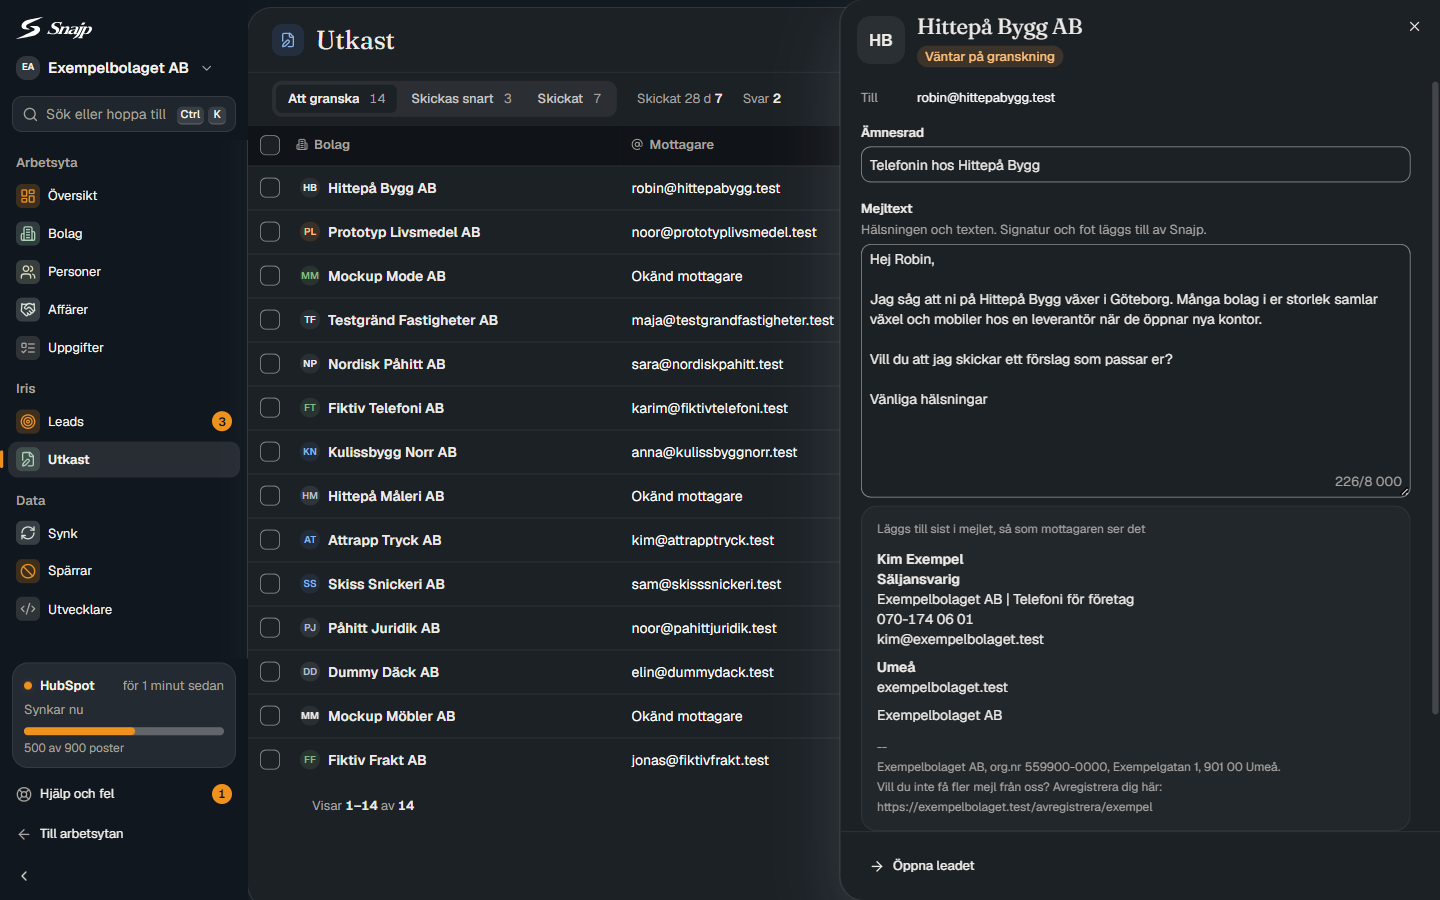
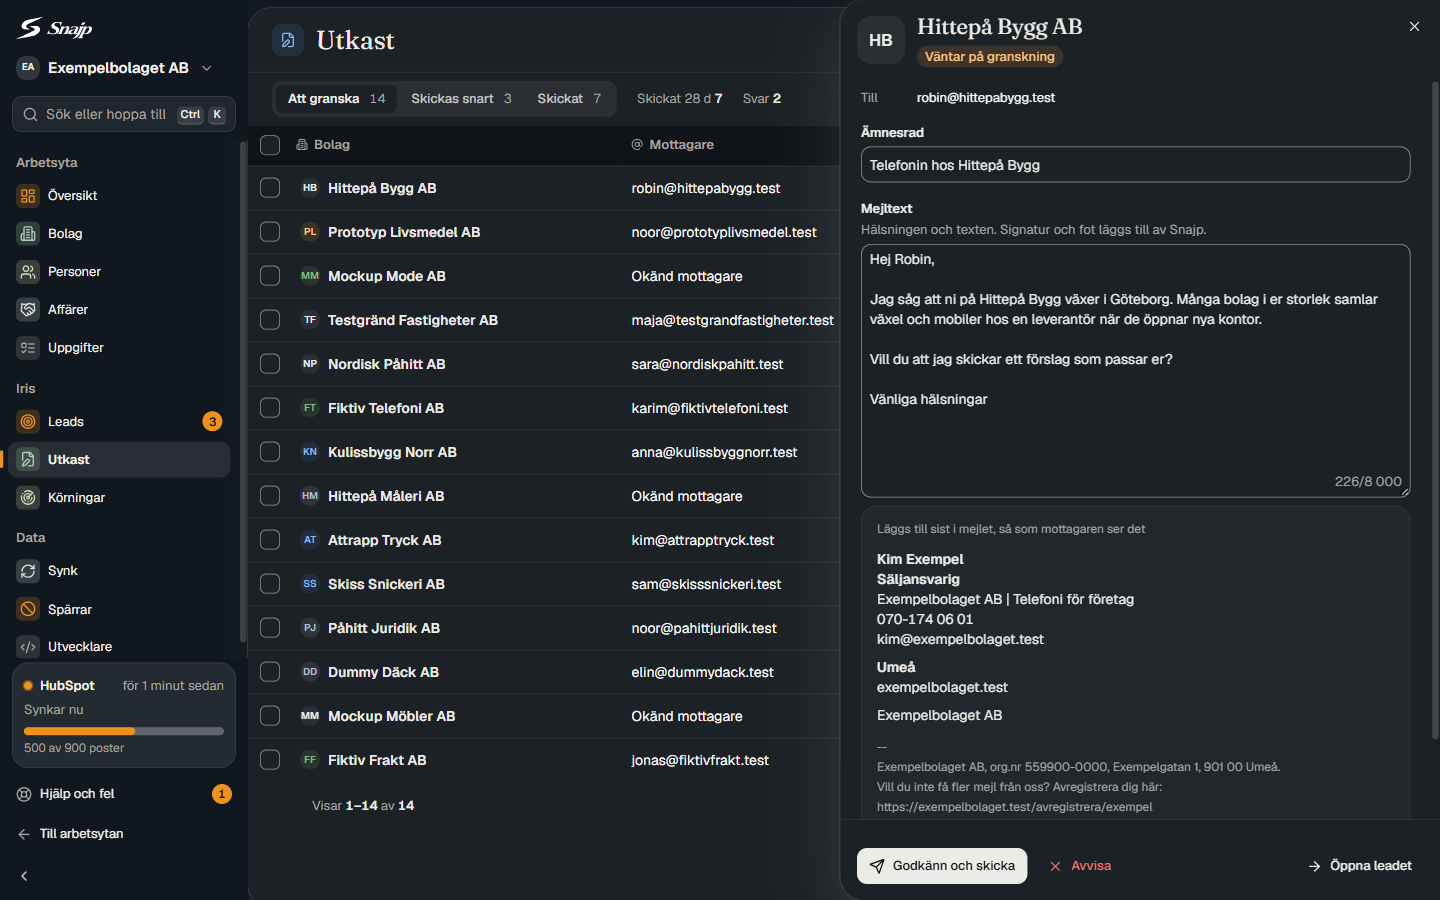
fix(crm): besluten i utkastpanelens fot, och korningslistan utan kapade kolumner
Orkestratorns egen granskning av bilderna fran steg 4.3 och 4.4:
- Godkann och skicka, Spara och Avvisa lag under signaturen i utkastets
  panel, sa att man fick rulla forbi hela mejlet for att na dem. De star
  nu i panelens fot tillsammans med utfallet (ny prop fot i
  Utkastredigerare, ritad med en portal). Verktygen for texten (Bearbeta
  texten, Skicka provmejl, Skriv om) star kvar vid texten.
- Korningslistan: typen (Research och utkast, A) och markningen Test
  kapades fast det fanns plats. Kolumnerna ar ombalanserade och utfallet
  tar resten.
- Kor Iris: Antal leads och Omfattning stod pa olika hojd. Forklaringen
  star nu under raden.

Sett i bild i 1440 ljust och morkt och i 390, aven med lasroll och
kundbesok. Avgransad tsc ren, 769 invarianter grona.

diff --git a/components/crm/app/iris/Utkastredigerare.tsx b/components/crm/app/iris/Utkastredigerare.tsx
@@ -1,6 +1,7 @@
 "use client";
 
 import { useEffect, useRef, useState } from "react";
+import { createPortal } from "react-dom";
 import { Check, Mail, RefreshCw, Send, Sparkles, TriangleAlert, Undo2, X } from "lucide-react";
 import { AlertDialog } from "@astryxdesign/core/AlertDialog";
 import { Banner } from "@astryxdesign/core/Banner";
@@ -176,6 +177,7 @@ export function Utkastredigerare({
   provmejl,
   skriv,
   extra,
+  fot,
   visaText = true
 }: Readonly<{
   /** Utkastets id: ett nytt värde (annat utkast) börjar om från den sparade texten. */
@@ -205,6 +207,11 @@ export function Utkastredigerare({
   skriv: { far: boolean; skal: string | null };
   /** Ytans egna knappar, sist i raden. */
   extra?: React.ReactNode;
+  /**
+   * Panelens fot. Finns den står besluten (Godkänn och skicka, Spara, Avvisa) och utfallet där, så att
+   * de syns utan att man rullar förbi signaturen. Verktygen för texten står kvar vid texten.
+   */
+  fot?: HTMLElement | null;
   /** Falskt: bara handlingarna och utfallet, när ytan redan visar mejlet (en skickad konversation). */
   visaText?: boolean;
 }>) {
@@ -439,6 +446,25 @@ export function Utkastredigerare({
   const rader = Math.min(22, Math.max(8, falt.text.split("\n").length + Math.floor(falt.text.length / 72) + 1));
   const aiNamn = (v: Studioval) => text(STUDIOVAL.find((s) => s.v === v)?.namn ?? { sv: v, en: v });
 
+  const knappGodkann = godkann ? (
+    <Button
+      label={godkann.etikett ?? text({ sv: "Godkänn och skicka", en: "Approve and send" })}
+      variant="primary"
+      icon={<Icon icon={Send} size="sm" />}
+      isLoading={upptagen === "godkann"}
+      isDisabled={lasning.isDisabled || (handlingslista.length > 0 && !kontrollerat)}
+      tooltip={skriv.skal ?? (handlingslista.length > 0 && !kontrollerat ? text({ sv: "Bekräfta först att det utkastet påstår är gjort.", en: "First confirm that what the draft claims is done." }) : undefined)}
+      onClick={() => void gor("godkann", () => godkann.gor(handlingslista.length > 0 && kontrollerat))}
+    />
+  ) : null;
+  const knappSpara =
+    visaFalt && spara && andrad ? (
+      <Button label={text({ sv: "Spara", en: "Save" })} variant="secondary" icon={<Icon icon={Check} size="sm" />} isLoading={upptagen === "spara"} {...lasning} onClick={sparaNu} />
+    ) : null;
+  const knappAvvisa = avvisa ? (
+    <Button label={text({ sv: "Avvisa", en: "Reject" })} variant="ghost" icon={<Icon icon={X} size="sm" />} className="crm-farlig" isLoading={upptagen === "avvisa"} {...lasning} onClick={() => setAvvisas(true)} />
+  ) : null;
+
   return (
     <div className="flex flex-col gap-4">
       {visaText && mottagare !== undefined ? (
@@ -588,20 +614,8 @@ export function Utkastredigerare({
 
       {!skrivs ? (
         <div className="flex flex-wrap items-center gap-2">
-          {godkann ? (
-            <Button
-              label={godkann.etikett ?? text({ sv: "Godkänn och skicka", en: "Approve and send" })}
-              variant="primary"
-              icon={<Icon icon={Send} size="sm" />}
-              isLoading={upptagen === "godkann"}
-              isDisabled={lasning.isDisabled || (handlingslista.length > 0 && !kontrollerat)}
-              tooltip={skriv.skal ?? (handlingslista.length > 0 && !kontrollerat ? text({ sv: "Bekräfta först att det utkastet påstår är gjort.", en: "First confirm that what the draft claims is done." }) : undefined)}
-              onClick={() => void gor("godkann", () => godkann.gor(handlingslista.length > 0 && kontrollerat))}
-            />
-          ) : null}
-          {visaFalt && spara && andrad ? (
-            <Button label={text({ sv: "Spara", en: "Save" })} variant="secondary" icon={<Icon icon={Check} size="sm" />} isLoading={upptagen === "spara"} {...lasning} onClick={sparaNu} />
-          ) : null}
+          {fot ? null : knappGodkann}
+          {fot ? null : knappSpara}
           {skrivOm && !omskrivning ? (
             <Button label={text({ sv: "Skriv om", en: "Rewrite" })} variant="secondary" icon={<Icon icon={RefreshCw} size="sm" />} {...lasning} onClick={startaOmskrivning} />
           ) : null}
@@ -626,13 +640,27 @@ export function Utkastredigerare({
             <Button label={text({ sv: "Skicka provmejl", en: "Send test email" })} variant="ghost" icon={<Icon icon={Mail} size="sm" />} {...lasning} onClick={() => void oppnaProv()} />
           ) : null}
           {extra}
-          {avvisa ? (
-            <Button label={text({ sv: "Avvisa", en: "Reject" })} variant="ghost" icon={<Icon icon={X} size="sm" />} className="crm-farlig" isLoading={upptagen === "avvisa"} {...lasning} onClick={() => setAvvisas(true)} />
-          ) : null}
+          {fot ? null : knappAvvisa}
         </div>
       ) : null}
 
-      {/* Utfallet sägs upp i en region som finns hela tiden. */}
+      {/* Utfallet sägs upp i en region som finns hela tiden. Med en fot står det där, ovanför besluten. */}
+      {((utfall: React.ReactNode) =>
+        fot
+          ? createPortal(
+              <div className="flex min-w-0 flex-col gap-3">
+                {utfall}
+                {!skrivs ? (
+                  <div className="flex flex-wrap items-center gap-2">
+                    {knappGodkann}
+                    {knappSpara}
+                    {knappAvvisa}
+                  </div>
+                ) : null}
+              </div>,
+              fot
+            )
+          : utfall)(
       <div role="status" aria-live="polite">
         {/* Förloppet medan Iris skriver sägs här; rutan ovanför visar det bara. */}
         {skrivs ? <span className="sr-only">{text({ sv: "Iris skriver utkastet.", en: "Iris is writing the draft." })}</span> : null}
@@ -654,6 +682,7 @@ export function Utkastredigerare({
           />
         ) : null}
       </div>
+      )}
 
       <Dialog isOpen={prov != null} onOpenChange={(o) => !o && upptagen !== "prov" && setProv(null)} purpose="form" width={480}>
         <Layout

diff --git a/components/crm/app/iris/KorningarVy.tsx b/components/crm/app/iris/KorningarVy.tsx
@@ -329,25 +329,25 @@ export function KorningarVy({ bas = "/crm" }: Readonly<{ bas?: string }>) {
       {
         key: "created_at",
         header: <Kolumnrubrik ikon={Clock}>{text({ sv: "Startad", en: "Started" })}</Kolumnrubrik>,
-        width: pixel(220),
+        width: pixel(264),
         renderCell: (r) => (
           <NextLink href={vag(r.job_id)} className="crm-chip inline-flex h-7 max-w-full items-center gap-2 rounded-[6px] pl-1 pr-2" aria-label={text({ sv: `Öppna körningen ${korningstid(r.created_at, locale)}`, en: `Open the run ${korningstid(r.created_at, locale)}` })}>
             <Objektikon objekt="korningar" storlek={20} />
-            <span className="truncate text-[0.875rem] font-semibold tabular-nums text-ink">{korningstid(r.created_at, locale)}</span>
-            {r.is_test ? <Badge variant="neutral" label={text({ sv: "Test", en: "Test" })} /> : null}
+            <span className="whitespace-nowrap text-[0.875rem] font-semibold tabular-nums text-ink">{korningstid(r.created_at, locale)}</span>
+            {r.is_test ? (<span className="shrink-0"><Badge variant="neutral" label={text({ sv: "Test", en: "Test" })} /></span>) : null}
           </NextLink>
         )
       },
       {
         key: "typ",
         header: <Kolumnrubrik ikon={Type}>{text({ sv: "Typ", en: "Type" })}</Kolumnrubrik>,
-        width: proportional(1, { minWidth: 150 }),
+        width: pixel(196),
         renderCell: (r) => <span title={typ(r)} className="text-ink2">{typ(r)}</span>
       },
       {
         key: "status",
         header: <Kolumnrubrik ikon={CircleDot}>{text({ sv: "Status", en: "Status" })}</Kolumnrubrik>,
-        width: pixel(164),
+        width: pixel(160),
         renderCell: (r) => <Korningsstatus rad={r} />
       },
       {
@@ -372,13 +372,13 @@ export function KorningarVy({ bas = "/crm" }: Readonly<{ bas?: string }>) {
       {
         key: "undersokta",
         header: <Kolumnrubrik ikon={Search}>{text({ sv: "Undersökta", en: "Researched" })}</Kolumnrubrik>,
-        width: pixel(128),
+        width: pixel(116),
         renderCell: (r) => <span className="tabular-nums text-ink2">{r.korning ? tal(r.korning.undersokta) : "-"}</span>
       },
       {
         key: "utfall",
         header: <Kolumnrubrik ikon={Layers}>{text({ sv: "Utfall", en: "Outcome" })}</Kolumnrubrik>,
-        width: proportional(2, { minWidth: 180 }),
+        width: proportional(1, { minWidth: 180 }),
         renderCell: (r) => {
           const u = utfallText(r, text);
           return (

diff --git a/components/crm/app/iris/KorIris.tsx b/components/crm/app/iris/KorIris.tsx
@@ -274,10 +274,9 @@ export function KorIris({ oppen, stang, startad }: Readonly<{ oppen: boolean; st
               <fieldset className="crm-formgrupp">
                 <legend className="mb-3 text-[0.8125rem] font-semibold text-ink-muted">{text({ sv: "Körningen", en: "The run" })}</legend>
                 <div className="grid grid-cols-1 gap-x-4 gap-y-4 sm:grid-cols-2">
-                  <div data-falt="antal">
+                  <div data-falt="antal" className="sm:col-start-1 sm:row-start-1">
                     <TextInput
                       label={text({ sv: "Antal leads", en: "Number of leads" })}
-                      description={text({ sv: "1 till 200. Räknar leverbara leads, inte bolag som prövas.", en: "1 to 200. Counts deliverable leads, not companies tried." })}
                       inputMode="numeric"
                       value={antal}
                       onChange={(v) => {
@@ -289,7 +288,11 @@ export function KorIris({ oppen, stang, startad }: Readonly<{ oppen: boolean; st
                       status={status("antal")}
                     />
                   </div>
-                  <div data-falt="omfattning">
+                  {/* Förklaringen står under raden, så att de två fälten hamnar på samma höjd. */}
+                  <p className="-mt-2 text-[0.8125rem] text-ink-muted sm:col-span-2 sm:row-start-2">
+                    {text({ sv: "1 till 200. Räknar leverbara leads, inte bolag som prövas.", en: "1 to 200. Counts deliverable leads, not companies tried." })}
+                  </p>
+                  <div data-falt="omfattning" className="sm:col-start-2 sm:row-start-1">
                     <Selector
                       label={text({ sv: "Omfattning", en: "Scope" })}
                       value={omfattning}

diff --git a/components/crm/app/iris/UtkastPanel.tsx b/components/crm/app/iris/UtkastPanel.tsx
@@ -125,6 +125,8 @@ export function UtkastPanel({
   uppfoljning: (rad: SkickatRad) => void;
 }>) {
   const { text, locale } = useLocale();
+  // Fotens plats för redigerarens beslut och utfall (se propen fot i Utkastredigerare).
+  const [fot, setFot] = useState<HTMLElement | null>(null);
   const ko = post?.slag === "granska" ? post.ko : null;
   const rad = post && post.slag !== "granska" ? post.rad : null;
   const namn = (ko?.company_name ?? rad?.company_name) || (ko?.prospect_email ?? rad?.prospect_email) || text({ sv: "Okänt bolag", en: "Unknown company" });
@@ -178,6 +180,7 @@ export function UtkastPanel({
                   avvisa={{ gor: () => avvisa(ko) }}
                   provmejl={{ queueItemId: ko.id }}
                   skriv={skriv}
+                  fot={fot}
                 />
               ) : rad ? (
                 <div className="flex flex-col gap-4">
@@ -227,7 +230,9 @@ export function UtkastPanel({
         footer={
           post ? (
             <LayoutFooter hasDivider>
-              <HStack gap={2} vAlign="center" justify="between" wrap="wrap">
+              <HStack gap={2} vAlign="end" justify="between" wrap="wrap">
+                {/* Besluten och utfallet för ett utkast som väntar: redigeraren ritar dem här (prop fot). */}
+                {ko ? <div ref={setFot} className="min-w-0 flex-1 basis-full sm:basis-0" /> : null}
                 {prospekt ? (
                   <Button label={text({ sv: "Öppna leadet", en: "Open the lead" })} variant="ghost" icon={<Icon icon={ArrowRight} size="sm" />} href={`${bas}/iris/leads?lead=${encodeURIComponent(prospekt)}`} />
                 ) : (
